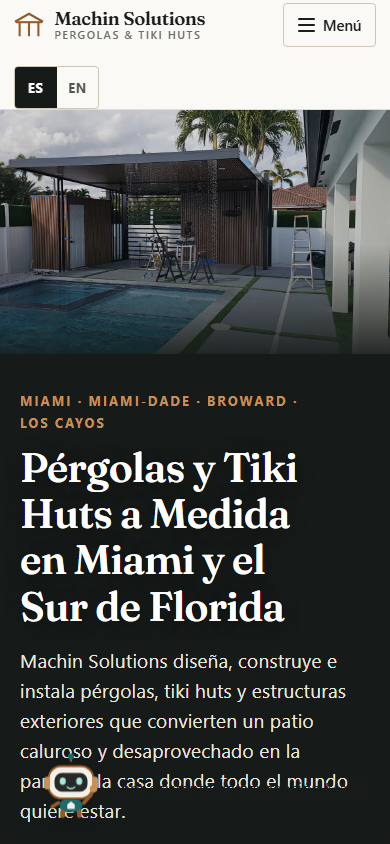
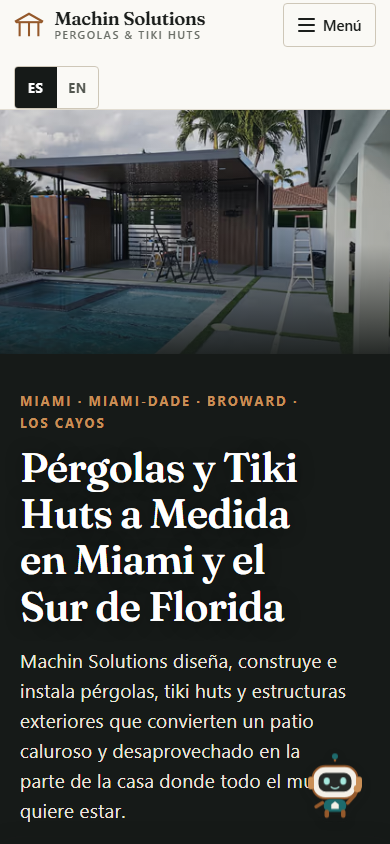
fix: keep Machi launcher compact on mobile

diff --git a/scripts/assistant-browser-check.js b/scripts/assistant-browser-check.js
@@ -3,6 +3,7 @@ return await (async () => {
   const launch = document.querySelector('[data-assistant-launch]');
   const log = document.querySelector('[data-assistant-log]');
   const bounds = panel.getBoundingClientRect();
+  const launcherBounds = launch.getBoundingClientRect();
   return JSON.stringify({
     url: location.href, open: panel.open,
     expanded: launch.getAttribute('aria-expanded'),
@@ -10,6 +11,7 @@ return await (async () => {
     viewport: { width: innerWidth, height: innerHeight },
     panel: {left: bounds.left, right: bounds.right, top: bounds.top, bottom: bounds.bottom},
     horizontalOverflow: document.documentElement.scrollWidth > innerWidth,
+    launcher: {left: launcherBounds.left, right: launcherBounds.right, width: launcherBounds.width},
     messages: [...log.children].map(x => x.textContent),
     links: [...log.querySelectorAll('a')].map(x => ({text: x.textContent, path: x.getAttribute('href')})),
     inputCleared: document.querySelector('#assistant-question').value === '',
